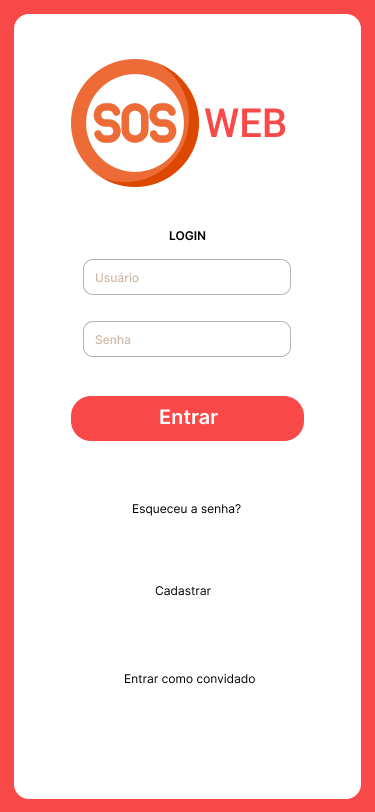
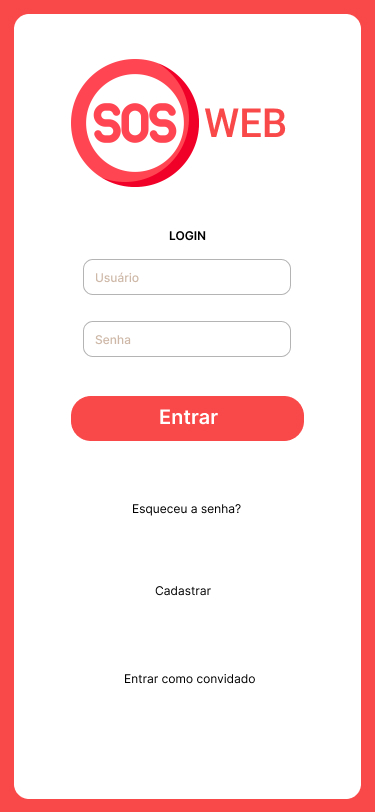
adjust styles

Changed region(s): [[0.176, 0.0616, 0.528, 0.2463]]

diff --git a/src/login.css b/src/login.css
@@ -7,39 +7,66 @@ body {
 
 .sign-up {
     margin-top: 30px;
-    width: 500px;
-    height: 800px;
+    width: 345px;
+    height: 750px;
     background-color: #fff;
+    border-radius: 15px;
 }
-h1 {
-    font-family: Arial, Helvetica, sans-serif;
-    font-style: normal;
-    color: black;
-    font-size: 0.3cm;
+
+.sign-up p {
+    font-family: 'Inter', sans-serif;
+    font-weight: 600;
+    font-size: 12px;
     margin-top: 70px;
     margin-bottom: 10px;
+}
+
+.sign-up a {
+    font-family: 'Inter', sans-serif;
+    font-weight: 400;
+    font-size: 12px;
+    margin-top: 30px;
+}
+
+.input-login {
+    border: 1px solid #CEB8A7 !important;
+    border-radius: 10px;
+    width: 180px;
+    height: 25px;
+    padding: 5px 5px 5px 10px;
+    margin-top: 8px;
+    margin-bottom: 8px;
+}
+
+.form-container input::placeholder {
+    margin-left: 20px;
+    color: #CEB8A7;
+}
+
+.form-container input:focus {
+    outline-color: #F94949;
 }
 
 .login-button {
     border: #F94949;
     background-color: #F94949;
-    border-radius: 10px;
-    width: 150px;
-    height: 20px;
-    color: white;
-    font-family: Arial, Helvetica, sans-serif;
+    border-radius: 20px;
+    width: 215px;
+    height: 45px;
+    color: #fff;
+    font-family: 'Inter', sans-serif;
+    font-weight: 600;
+    margin-top: 40px;
     margin-bottom: 20px;
+    cursor: pointer;
 }
+
 .form-container {
     flex-direction: column;
     display: flex;
     align-items: center;
     justify-content: center;
     text-align: center;
-}
-input {
-    margin-top: 8px;
-    margin-bottom: 8px;
 }
 
 .logo-container {
@@ -48,18 +75,19 @@ input {
     justify-content: center;
     margin-top: 40px;
 }
+
 .logo-container h1 {
+    font-family: 'Roboto', sans-serif;
+    font-weight: 400;
+    font-size: 40px;
     color: #F94949;
     margin-left: 5px;
 }
 
-#options{
+.options {
     display: flex;
     align-items: center;
     justify-content: center;
     flex-direction: column;
-}
-
-a{
-    margin: 20px;
+    cursor: pointer;
 }

diff --git a/src/login.html b/src/login.html
@@ -4,13 +4,14 @@
     <head>
         <meta charset="UTF-8"/>
         <link rel="stylesheet" href="login.css">
+        <link rel="preconnect" href="https://fonts.googleapis.com">
+        <link rel="preconnect" href="https://fonts.gstatic.com" crossorigin>
+        <link href="https://fonts.googleapis.com/css2?family=Inter:wght@400;500;600&family=Roboto&display=swap" rel="stylesheet">
         <title>SOS Web</title>
     </head>
 
     <body>
         <div class="sign-up">
-            
-            <!-- todo código deverá ser criado aqui -->
             <div class="logo-container">
                 <img src="./logo.svg" alt="logo"/> 
                 <h1>
@@ -18,14 +19,24 @@
                 </h1>
             </div>
             <div class="form-container"> 
-                <h1>LOGIN</h1>
+                <p>LOGIN</p>
                 <form name="form_login" action="do_login.html" method="POST">
-                    <input type="text" name="nome" value="" placeholder="Usuário" /><br>
-                    <input type="password" name="senha" value="" placeholder="Senha"><br>
+                    <input
+                        type="text"
+                        class="input-login"
+                        name="nome"
+                        placeholder="Usuário"
+                    /><br>
+                    <input
+                        type="password"
+                        class="input-login"
+                        name="senha"
+                        placeholder="Senha"
+                    /><br>
                     <input type="submit" class="login-button" value="Entrar">
                 </form>
             </div>
-            <div id="options">
+            <div class="options">
                 <a> Esqueceu a Senha?</a><br>
                 <a> Cadastrar</a><br>
                 <a> Entrar como convidado</a><br>
